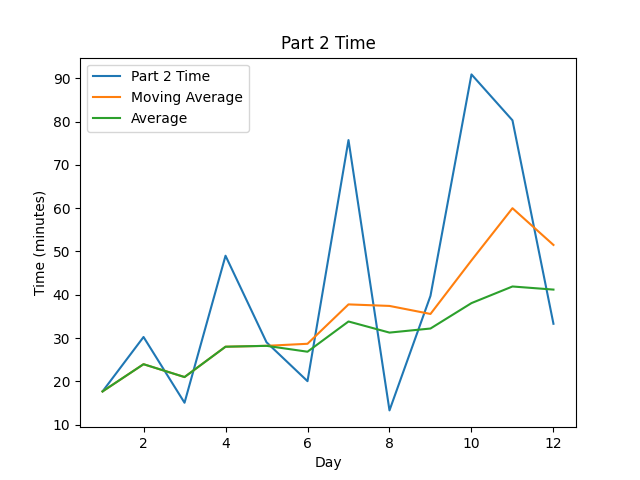
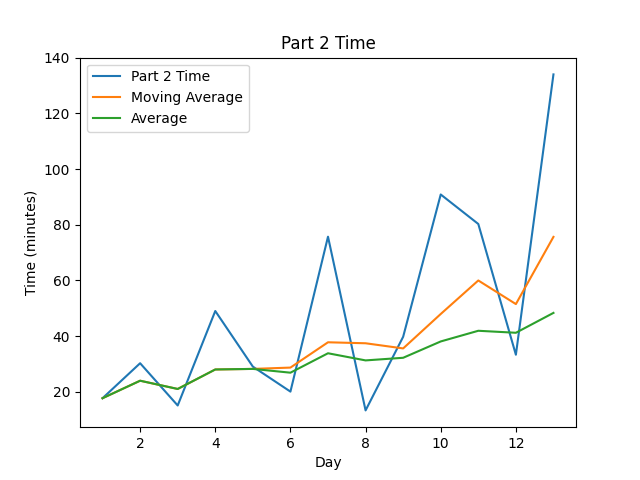
Day 13 ✅

diff --git a/src/day13/__tests__/dayTest.ts b/src/day13/__tests__/dayTest.ts
@@ -1,0 +1,33 @@
+import { part1, part2 } from '../solution';
+
+const input =
+  '1000511\n' +
+  '29,x,x,x,x,x,x,x,x,x,x,x,x,x,x,x,x,x,x,x,x,x,x,37,x,x,x,x,x,409,x,x,x,x,x,x,x,x,x,x,x,x,x,x,x,x,17,13,19,x,x,x,23,' +
+  'x,x,x,x,x,x,x,353,x,x,x,x,x,x,x,x,x,x,x,x,x,x,x,x,x,x,x,x,x,x,x,x,x,x,x,x,x,x,x,x,x,x,x,x,x,x,x,x,41';
+
+const inputExample = '939\n7,13,x,x,59,x,31,19';
+const inputExample2 = '\n17,x,13,19';
+const inputExample3 = '\n67,7,59,61';
+const inputExample4 = '\n67,x,7,59,61';
+const inputExample5 = '\n67,7,x,59,61';
+const inputExample6 = '\n1789,37,47,1889';
+
+describe('day 13', () => {
+  it('should solve part 1 with example input', () => {
+    expect(part1(inputExample)).toBe(295);
+  });
+  it('should solve part 1 with my assigned input', () => {
+    expect(part1(input)).toBe(222);
+  });
+  it('should solve part 2 with example input', () => {
+    expect(part2(inputExample)).toBe(1068781);
+    expect(part2(inputExample2)).toBe(3417);
+    expect(part2(inputExample3)).toBe(754018);
+    expect(part2(inputExample4)).toBe(779210);
+    expect(part2(inputExample5)).toBe(1261476);
+    expect(part2(inputExample6)).toBe(1202161486);
+  });
+  it('should solve part 2 with my assigned input', () => {
+    expect(part2(input, 100000000000000)).toBe(408270049879073);
+  });
+});

diff --git a/src/day13/solution.ts b/src/day13/solution.ts
@@ -1,0 +1,34 @@
+import { inputAsText } from '../utils/InputProcessor';
+
+export const part1 = (input: string): number => {
+  const [earliestDept, idStrings] = input.split('\n');
+  const earliestDeptTime = Number.parseInt(earliestDept, 10);
+  const ids = idStrings
+    .split(',')
+    .filter((id) => id !== 'x')
+    .map((id) => Number.parseInt(id, 10));
+  const timeToLeave = ids.map((id) => id - (earliestDeptTime % id));
+  const soonest = Math.min(...timeToLeave);
+  return ids[timeToLeave.findIndex((time) => soonest === time)] * soonest;
+};
+
+export const part2 = (input: string, startSearchAt = 0): number => {
+  const [, idStrings] = input.split('\n');
+  const ids = idStrings
+    .split(',')
+    .map((id) => (id === 'x' ? -1 : Number.parseInt(id, 10)));
+  let t = startSearchAt;
+  let increment = 1;
+  ids.forEach((val, i) => {
+    if (val > 0) {
+      while ((t + i) % val !== 0) {
+        t += increment;
+      }
+      increment *= val; // Increment to the next time that array[0...i] has the correct remainders
+    }
+  });
+  return t;
+};
+
+const input = inputAsText('src/day13/input.txt');
+console.log(`Day 13:\n  Part 1:  ${part1(input)}\n  Part 2:  ${part2(input)}`);

diff --git a/src/day13/README.md b/src/day13/README.md
@@ -1,0 +1,119 @@
+\--- Day 13: Shuttle Search ---
+-------------------------------
+
+Your ferry can make it safely to a nearby port, but it won't get much further. When you call to book another ship, you discover that no ships embark from that port to your vacation island. You'll need to get from the port to the nearest airport.
+
+Fortunately, a shuttle bus service is available to bring you from the sea port to the airport! Each bus has an ID number that also indicates _how often the bus leaves for the airport_.
+
+Bus schedules are defined based on a _timestamp_ that measures the _number of minutes_ since some fixed reference point in the past. At timestamp `0`, every bus simultaneously departed from the sea port. After that, each bus travels to the airport, then various other locations, and finally returns to the sea port to repeat its journey forever.
+
+The time this loop takes a particular bus is also its ID number: the bus with ID `5` departs from the sea port at timestamps `0`, `5`, `10`, `15`, and so on. The bus with ID `11` departs at `0`, `11`, `22`, `33`, and so on. If you are there when the bus departs, you can ride that bus to the airport!
+
+Your notes (your puzzle input) consist of two lines. The first line is your estimate of the _earliest timestamp you could depart on a bus_. The second line lists the bus IDs that are in service according to the shuttle company; entries that show `x` must be out of service, so you decide to ignore them.
+
+To save time once you arrive, your goal is to figure out _the earliest bus you can take to the airport_. (There will be exactly one such bus.)
+
+For example, suppose you have the following notes:
+
+    939
+    7,13,x,x,59,x,31,19
+    
+
+Here, the earliest timestamp you could depart is `939`, and the bus IDs in service are `7`, `13`, `59`, `31`, and `19`. Near timestamp `939`, these bus IDs depart at the times marked `D`:
+
+    time   bus 7   bus 13  bus 59  bus 31  bus 19
+    929     .      .      .      .      .
+    930     .      .      .       D      .
+    931      D      .      .      .       D
+    932     .      .      .      .      .
+    933     .      .      .      .      .
+    934     .      .      .      .      .
+    935     .      .      .      .      .
+    936     .       D      .      .      .
+    937     .      .      .      .      .
+    938      D      .      .      .      .
+    939     .      .      .      .      .
+    940     .      .      .      .      .
+    941     .      .      .      .      .
+    942     .      .      .      .      .
+    943     .      .      .      .      .
+    944     .      .       D      .      .
+    945      D      .      .      .      .
+    946     .      .      .      .      .
+    947     .      .      .      .      .
+    948     .      .      .      .      .
+    949     .       D      .      .      .
+    
+
+The earliest bus you could take is bus ID `59`. It doesn't depart until timestamp `944`, so you would need to wait `944 - 939 = 5` minutes before it departs. Multiplying the bus ID by the number of minutes you'd need to wait gives _`295`_.
+
+_What is the ID of the earliest bus you can take to the airport multiplied by the number of minutes you'll need to wait for that bus?_
+
+
+
+\--- Part Two ---
+-----------------
+
+The shuttle company is running a contest: one gold coin for anyone that can find the earliest timestamp such that the first bus ID departs at that time and each subsequent listed bus ID departs at that subsequent minute. (The first line in your input is no longer relevant.)
+
+For example, suppose you have the same list of bus IDs as above:
+
+    7,13,x,x,59,x,31,19
+
+An `x` in the schedule means there are no constraints on what bus IDs must depart at that time.
+
+This means you are looking for the earliest timestamp (called `t`) such that:
+
+*   Bus ID `7` departs at timestamp `t`.
+*   Bus ID `13` departs one minute after timestamp `t`.
+*   There are no requirements or restrictions on departures at two or three minutes after timestamp `t`.
+*   Bus ID `59` departs four minutes after timestamp `t`.
+*   There are no requirements or restrictions on departures at five minutes after timestamp `t`.
+*   Bus ID `31` departs six minutes after timestamp `t`.
+*   Bus ID `19` departs seven minutes after timestamp `t`.
+
+The only bus departures that matter are the listed bus IDs at their specific offsets from `t`. Those bus IDs can depart at other times, and other bus IDs can depart at those times. For example, in the list above, because bus ID `19` must depart seven minutes after the timestamp at which bus ID `7` departs, bus ID `7` will always _also_ be departing with bus ID `19` at seven minutes after timestamp `t`.
+
+In this example, the earliest timestamp at which this occurs is _`1068781`_:
+
+    time     bus 7   bus 13  bus 59  bus 31  bus 19
+    1068773   .      .      .      .      .
+    1068774    D      .      .      .      .
+    1068775   .      .      .      .      .
+    1068776   .      .      .      .      .
+    1068777   .      .      .      .      .
+    1068778   .      .      .      .      .
+    1068779   .      .      .      .      .
+    1068780   .      .      .      .      .
+    1068781    D      .      .      .      .
+    1068782   .       D      .      .      .
+    1068783   .      .      .      .      .
+    1068784   .      .      .      .      .
+    1068785   .      .       D      .      .
+    1068786   .      .      .      .      .
+    1068787   .      .      .       D      .
+    1068788    D      .      .      .       D
+    1068789   .      .      .      .      .
+    1068790   .      .      .      .      .
+    1068791   .      .      .      .      .
+    1068792   .      .      .      .      .
+    1068793   .      .      .      .      .
+    1068794   .      .      .      .      .
+    1068795    D       D      .      .      .
+    1068796   .      .      .      .      .
+    1068797   .      .      .      .      .
+    
+
+In the above example, bus ID `7` departs at timestamp `1068788` (seven minutes after `t`). This is fine; the only requirement on that minute is that bus ID `19` departs then, and it does.
+
+Here are some other examples:
+
+*   The earliest timestamp that matches the list `17,x,13,19` is _`3417`_.
+*   `67,7,59,61` first occurs at timestamp _`754018`_.
+*   `67,x,7,59,61` first occurs at timestamp _`779210`_.
+*   `67,7,x,59,61` first occurs at timestamp _`1261476`_.
+*   `1789,37,47,1889` first occurs at timestamp _`1202161486`_.
+
+However, with so many bus IDs in your list, surely the actual earliest timestamp will be larger than `100000000000000`!
+
+_What is the earliest timestamp such that all of the listed bus IDs depart at offsets matching their positions in the list?_

diff --git a/README.md b/README.md
@@ -36,7 +36,8 @@ to do so, have every solution able to solve both parts in under a second on my 2
 |  10 | 00:23:30 ( 6342) (  0)     | 01:30:53 ( 4746) (  0)     |
 |  11 | 00:59:44 ( 5118) (  0)     | 01:20:17 ( 4030) (  0)     |
 |  12 | 00:14:16 ( 1665) (  0)     | 00:33:18 ( 1892) (  0)     |
-| Avg | 00:21:52 ( 3321) (  0)     | 00:41:11 ( 3394) (  0)     |
+|  13 | 00:11:28 ( 2227) (  0)     | 02:14:02 ( 3522) (  0)     |
+| Avg | 00:21:04 ( 3237) (  0)     | 00:48:20 ( 3404) (  0)     |
 
 
 <!--suppress CheckImageSize -->
